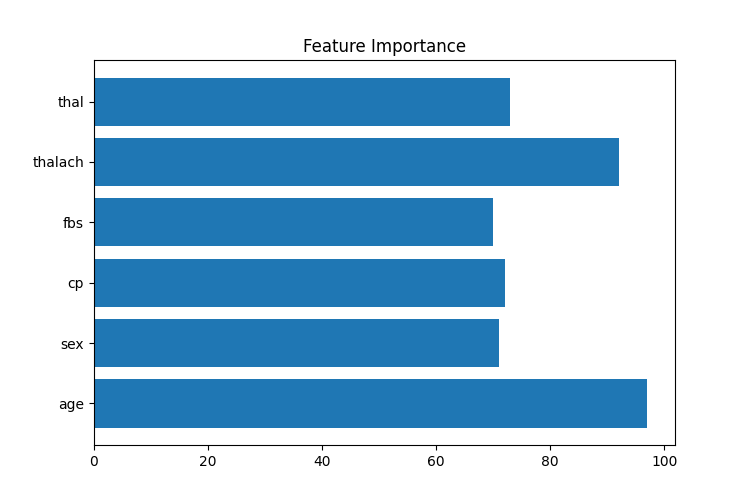
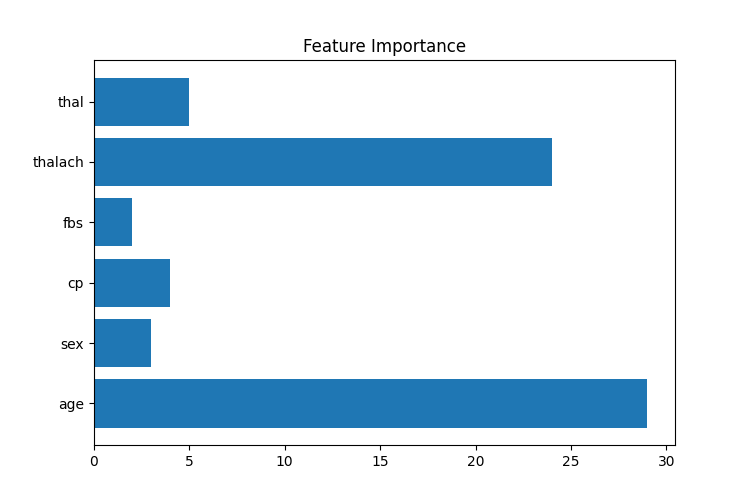
hw3: finished

diff --git a/hw03/src/110550088_HW3.py b/hw03/src/110550088_HW3.py
@@ -139,10 +139,11 @@ class DecisionTree():
         feature_importances = np.zeros(len(columns))
 
         def dfs(node):
+            if node.value is not None:
+                return
             feature_importances[node.feature] += 1
-            if not node.is_leaf():
-                dfs(node.left)
-                dfs(node.right)
+            dfs(node.left)
+            dfs(node.right)
         dfs(self.root)
         plt.figure(figsize=(7.5, 5))
         plt.barh(columns, feature_importances)
@@ -242,9 +243,9 @@ if __name__ == "__main__":
     y_pred = tree.predict(X_test)
     print("Accuracy (entropy with max_depth=7):", accuracy_score(y_test, y_pred))
 
-    tree = DecisionTree(criterion='gini', max_depth=15)
-    tree.fit(X_train, y_train)
-    tree.plot_feature_importance_img(train_df.columns[:-1])
+    # tree = DecisionTree(criterion='gini', max_depth=15)
+    # tree.fit(X_train, y_train)
+    # tree.plot_feature_importance_img(train_df.columns[:-1])
 
 
 
